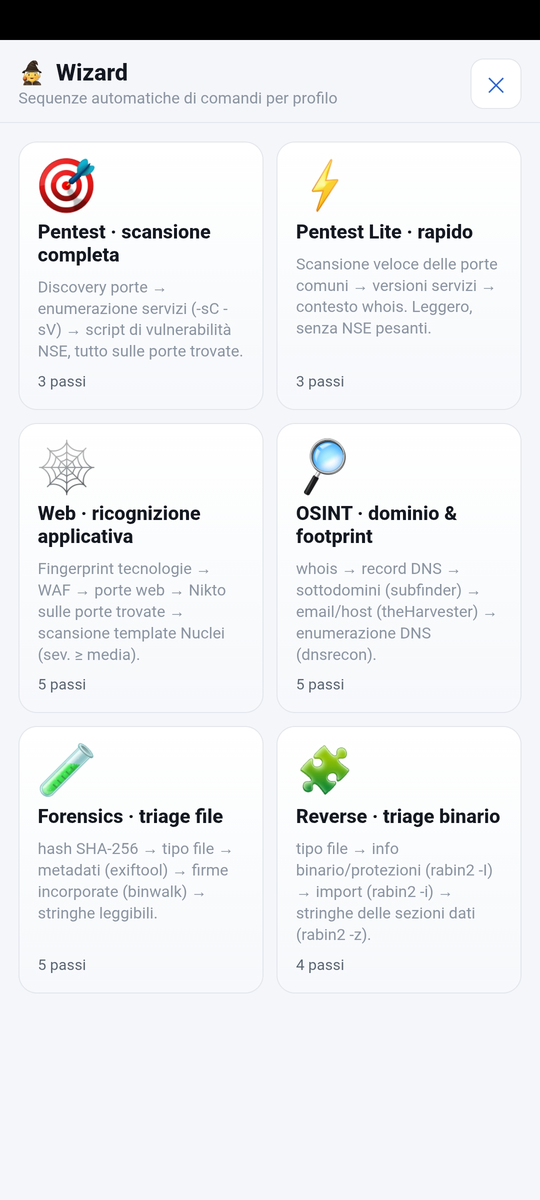
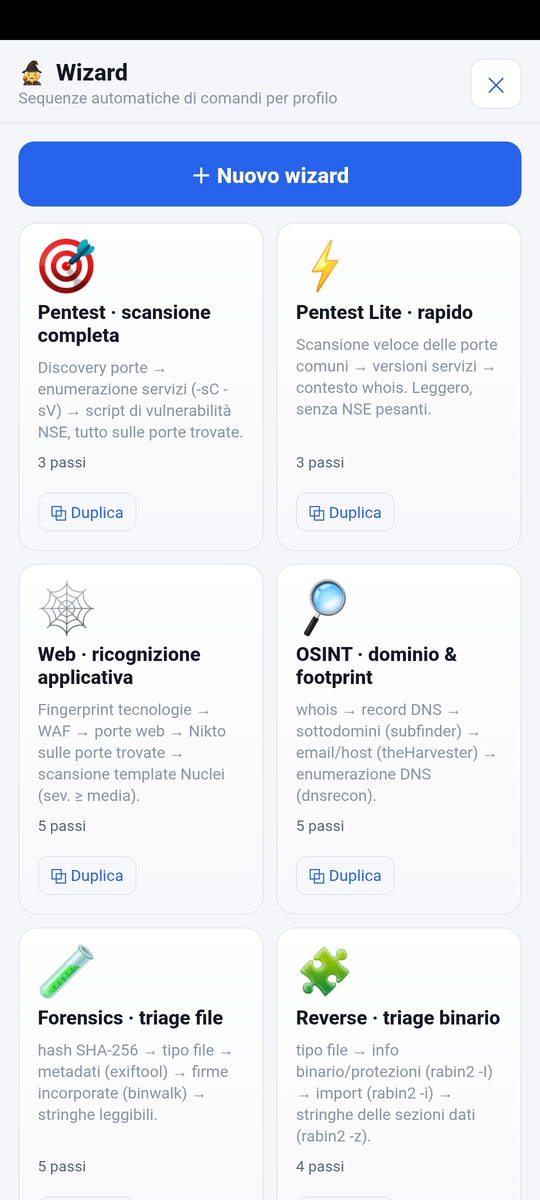
Doc: screenshot editor wizard + pannello aggiornato
Aggiornato 25-wizard-pannello (mostra + Nuovo wizard e Duplica) e aggiunto
27-wizard-editor (creazione wizard: programma+parametri). Gallery README e
MANUALE ora a 3 immagini (pannello, lancio, editor).

Changed region(s): [[0.0296, 0.0925, 0.9778, 0.9867]]

diff --git a/README.md b/README.md
@@ -271,8 +271,9 @@ tutto schermo** e **a tema**.
 
 <table>
 <tr>
-<td align="center" width="50%"><img src="docs/screens/25-wizard-pannello.png" width="230"><br><sub><b>Pannello aperto</b> — un wizard per profilo, con icona e anteprima dei passi</sub></td>
-<td align="center" width="50%"><img src="docs/screens/26-wizard-lancio.png" width="230"><br><sub><b>Lancio</b> — inserisci il bersaglio e parte la sequenza (output live, ■ Stop)</sub></td>
+<td align="center" width="33%"><img src="docs/screens/25-wizard-pannello.png" width="210"><br><sub><b>Pannello</b> — un wizard per profilo (＋ Nuovo, Duplica)</sub></td>
+<td align="center" width="33%"><img src="docs/screens/26-wizard-lancio.png" width="210"><br><sub><b>Lancio</b> — bersaglio → sequenza live (■ Stop)</sub></td>
+<td align="center" width="33%"><img src="docs/screens/27-wizard-editor.png" width="210"><br><sub><b>Editor</b> — crea il tuo: programma + parametri</sub></td>
 </tr>
 </table>
 

diff --git a/MANUALE.md b/MANUALE.md
@@ -119,8 +119,9 @@ Questa è l'interfaccia (una web-app). Da qui in poi comandi da qui.
 
 <table>
 <tr>
-<td align="center" width="50%"><img src="docs/screens/25-wizard-pannello.png" width="200"><br><sub><b>1.</b> Pannello Wizard aperto</sub></td>
-<td align="center" width="50%"><img src="docs/screens/26-wizard-lancio.png" width="200"><br><sub><b>2.</b> Bersaglio + avvio sequenza</sub></td>
+<td align="center" width="33%"><img src="docs/screens/25-wizard-pannello.png" width="180"><br><sub><b>1.</b> Pannello (＋ Nuovo / Duplica)</sub></td>
+<td align="center" width="33%"><img src="docs/screens/26-wizard-lancio.png" width="180"><br><sub><b>2.</b> Bersaglio + avvio sequenza</sub></td>
+<td align="center" width="33%"><img src="docs/screens/27-wizard-editor.png" width="180"><br><sub><b>3.</b> Editor: crea il tuo wizard</sub></td>
 </tr>
 </table>
 
